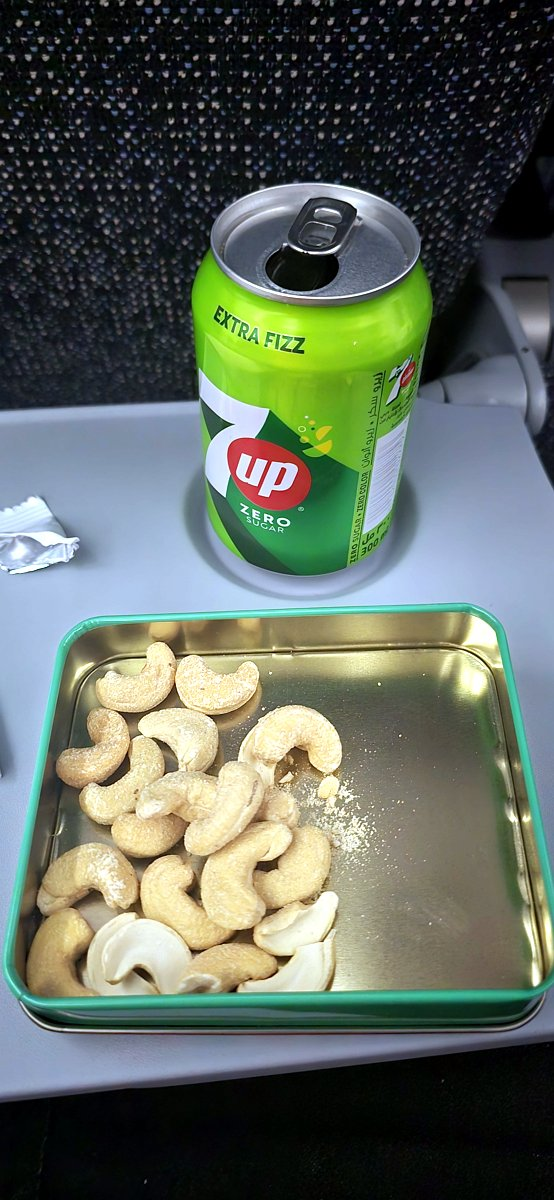
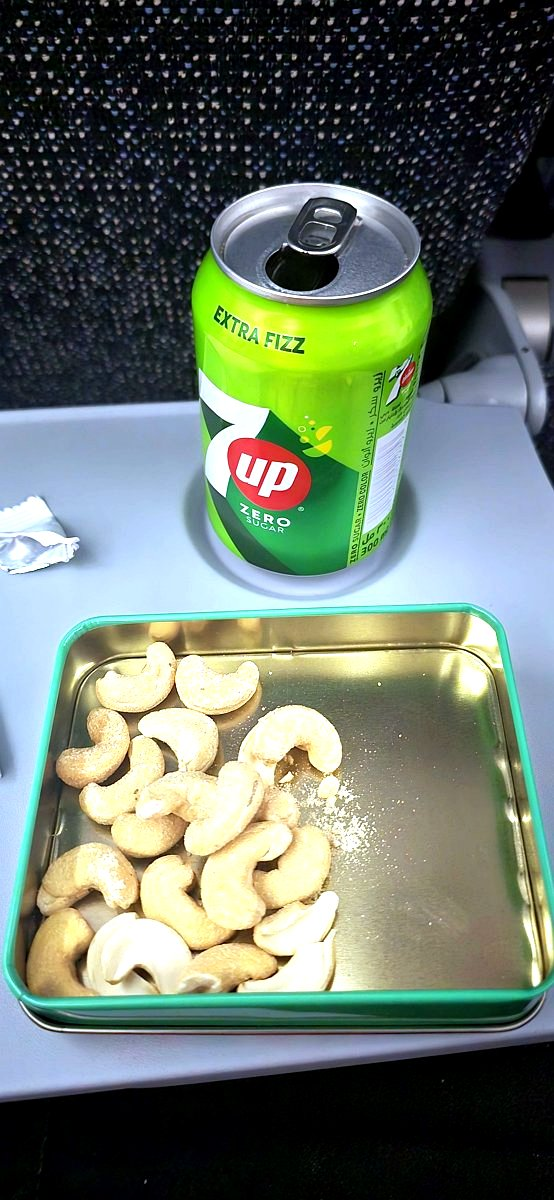
Enhance meal photos (auto-orient, exposure, white balance, sharpening)
Re-processed Aug 6 from originals and Aug 5 + Aug 4 cashews in place; make
auto-enhance the default for future photo uploads (documented in CLAUDE.md).

Claude-Session: https://claude.ai/code/session_01L853r71J2fDc8e4gwbWSa1

diff --git a/CLAUDE.md b/CLAUDE.md
@@ -58,6 +58,21 @@ Notes:
 3. **Save the photo** (if the user wants it kept) into `images/` using the naming
    pattern `<dow><daynum>_<shortlabel>.jpg`, e.g. `tue4_shawarma.jpg`,
    `sat1_eggs.jpg`. Reference it via the full raw URL in the item's `img`.
+   **Auto-enhance every photo before saving** (user preference): auto-orient via
+   EXIF, lift exposure only when the shot is dark, correct white balance, and add
+   gentle contrast/saturation/sharpening — natural, not over-processed. Downscale
+   to ~1200px long edge, JPEG quality ~85, target < ~320KB. Pillow pipeline:
+   ```python
+   from PIL import Image, ImageOps, ImageEnhance, ImageStat
+   im = ImageOps.exif_transpose(Image.open(p)).convert('RGB')
+   lum = ImageStat.Stat(im.convert('L')).mean[0]
+   if lum < 115:
+       im = ImageEnhance.Brightness(im).enhance(min(1.9, 118/max(lum,1)))
+   im = ImageOps.autocontrast(im, cutoff=(0.4, 0.2))   # white balance + levels
+   im = ImageEnhance.Color(im).enhance(1.08)
+   im = ImageEnhance.Contrast(im).enhance(1.04)
+   im = ImageEnhance.Sharpness(im).enhance(1.15)
+   ```
 4. **Edit `data.json`**: add the item(s) to the right `date` (create the day
    object if it's a new day), keep items roughly in time order, and bump
    `"updated"` to today.
